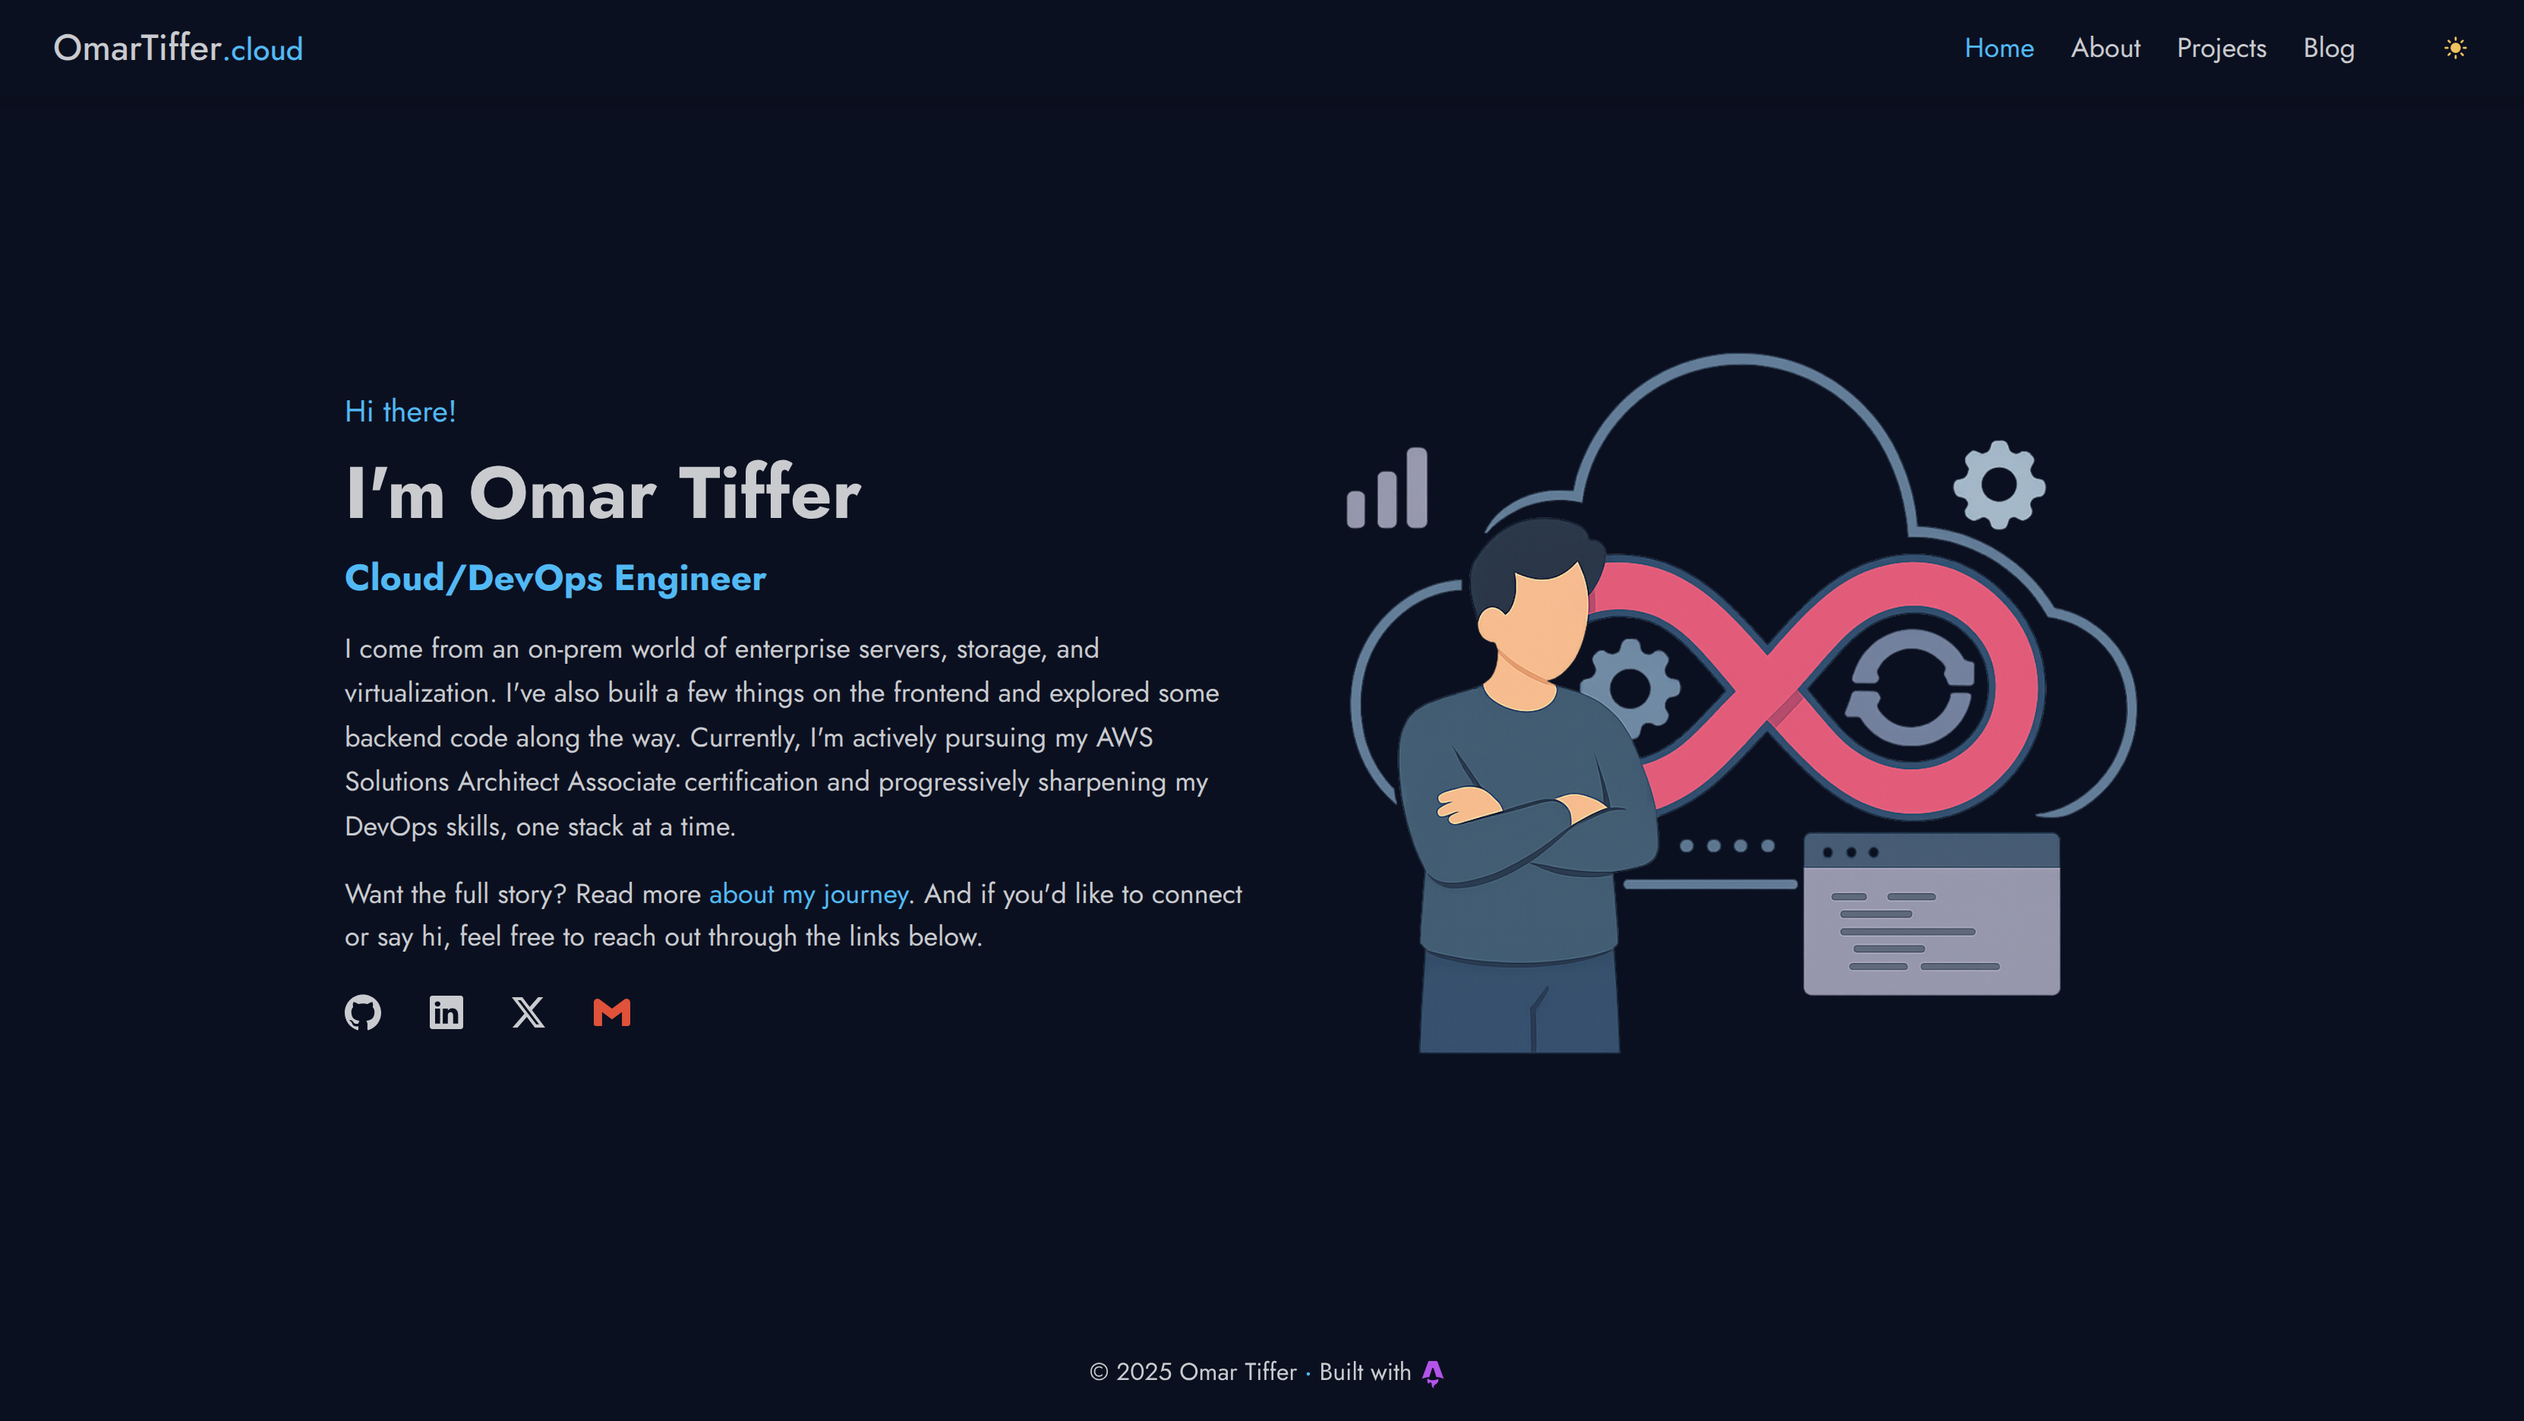
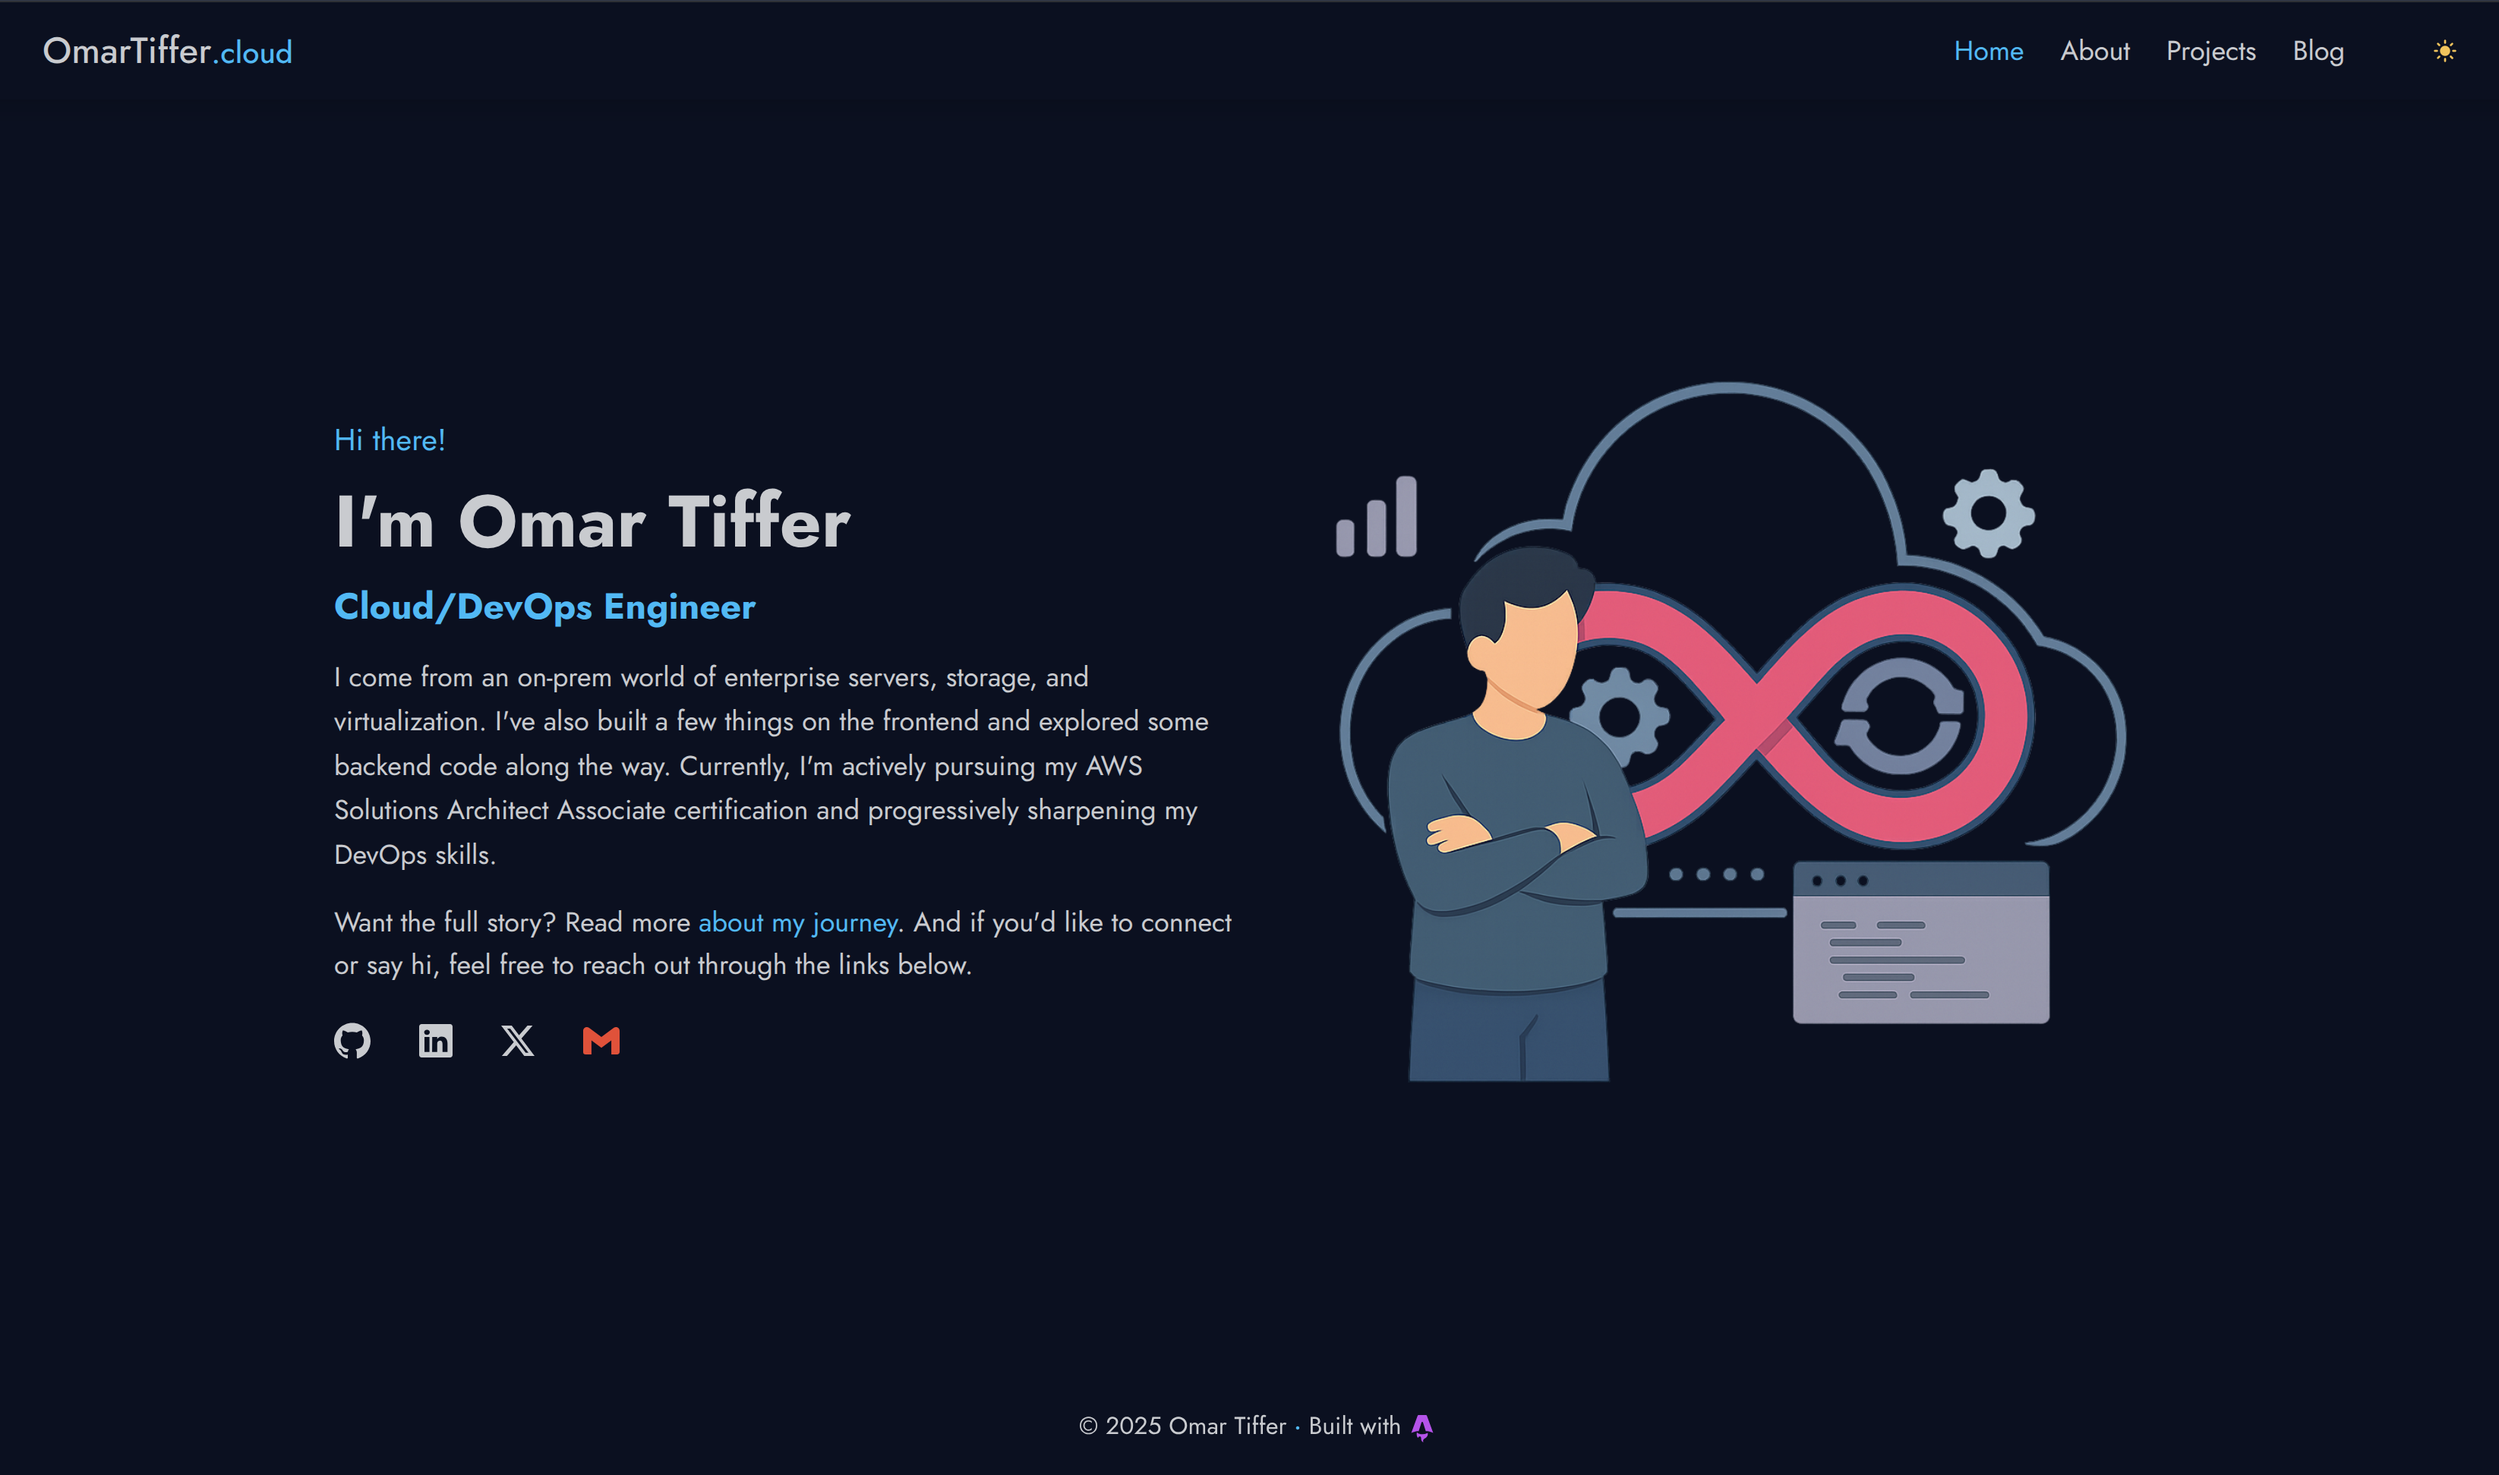
Minor content changes

diff --git a/src/content/pages/about.md b/src/content/pages/about.md
@@ -35,7 +35,7 @@ about:
           ]
       - date: "2021 - 2022"
         role: "Sabbatical - Web Development Bootcamp"
-        summary: "I took time off to pivot into web development, enrolling in a full-time bootcamp where I learned HTML, CSS, JavaScript, React, Vue, PHP, Laravel, and MySQL. Through hands-on projects, I built everything from responsive layouts based on Figma designs to dynamic content sites powered by public APIs. I also developed foundational fullstack apps — including a to-do list and a real-time chat app — using React on the frontend and Laravel on the backend. This experience marked a key shift from infrastructure to software development and laid the groundwork for my next chapter in tech."
+        summary: "I took time off to pivot into web development, enrolling in a full-time bootcamp where I learned HTML, CSS, JavaScript, React, Vue, PHP, Laravel, and MySQL. Through hands-on projects, I built everything from responsive layouts based on Figma designs to dynamic content sites powered by public APIs, as well as foundational fullstack apps — like a to-do list and a real-time chat app — using React on the frontend and Laravel on the backend. This experience marked a key shift from infrastructure to software development and laid the foundation for my next chapter in tech."
         stack: ["HTML", "CSS", "JavaScript", "React", "PHP", "Laravel", MySQL]
       - date: "2019 - 2021"
         role: "Technical Sales Engineer - IBM, Lenovo & VMware Partner"

diff --git a/src/content/pages/home.md b/src/content/pages/home.md
@@ -4,7 +4,7 @@ home:
   greeting: "Hi there!"
   title: "I'm Omar Tiffer"
   subTitle: "Cloud/DevOps Engineer"
-  content: "I come from an on-prem world of enterprise servers, storage, and virtualization. I've also built a few things on the frontend and explored some backend code along the way. Currently, I'm actively pursuing my AWS Solutions Architect Associate certification and progressively sharpening my DevOps skills, one stack at a time."
+  content: "I come from an on-prem world of enterprise servers, storage, and virtualization. I've also built a few things on the frontend and explored some backend code along the way. Currently, I'm actively pursuing my AWS Solutions Architect Associate certification and progressively sharpening my DevOps skills."
   cta: "Want the full story? Read more"
   link: " about my journey"
   connect: ". And if you'd like to connect or say hi, feel free to reach out through the links below."

diff --git a/README.md b/README.md
@@ -6,7 +6,7 @@ This is the source code for my website: [omartiffer.cloud](https://omartiffer.cl
 [![Netlify Status](https://api.netlify.com/api/v1/badges/072bc60c-5ab6-486b-a4d6-50e704fab1f4/deploy-status)](https://app.netlify.com/sites/omartiffer/deploys)
 [![License: MIT](https://img.shields.io/badge/License-MIT-yellow.svg)](LICENSE)
 
-![Screenshot of omartiffer.cloud homepage](src/assets/screenshot.png)
+![Screenshot of omartiffer.cloud homepage](src/assets/images/screenshot.png)
 
 ## 🛠 Tech stack
 
